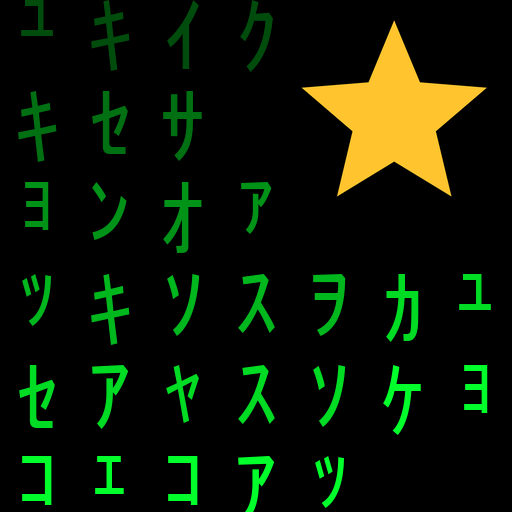
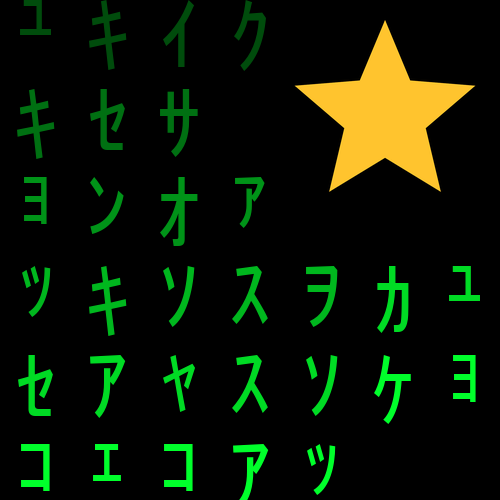
[FEATURE] Lite gets a store cover: Premium's cover without the star (#220)
* [FEATURE] Lite gets a store cover: Premium's cover without the star

Lite's listing used a screenshot of the face as its cover: a round watch
face with the clock, at small glyph size. It now gets
`resources/graphics/MatrixTimeCover.png`, the same artwork as Premium's
cover without the star.

- `tools/make-launcher-icons.py` draws the cover: Lite's rain in seven
  columns at 500 x 500, the size the store's dashboard asks for. It writes
  the cover on every `make icons`. `render()` takes an optional column
  count, and `columns_for()` gives the icons' default. That replaces
  `premium/tools/launcher_icon.py` temporarily changing Lite's
  `PIXELS_PER_CELL`.
- `premium/tools/launcher_icon.py` draws Premium's cover as `LITE.cover()`
  plus the star. As before, it clears the cells under the star's disc, now
  through `_cleared()`. Its size, column count and limit are Lite's.
  Premium's cover moves from 512 to 500. Drawn at 512, the refactored code
  reproduces the old cover pixel for pixel.
- `make check-icons`:
  - Lite's `--check` checks the cover is 500 x 500 and under 300 KB.
  - Premium's `check` adds that its cover is Lite's pixel for pixel away
    from the star and the cleared cells (`_cover_drift()`), as it already
    did for the launcher icons. A single pixel changed in Lite's cover
    fails it.
- README: the cover passage, the store-image tables, the LFS note, the
  command comments and the check description. Makefile: help text and
  comments.
[…]

diff --git a/premium/tools/launcher_icon.py b/premium/tools/launcher_icon.py
@@ -23,7 +23,9 @@ size: at 38 x 38 the star keeps the clearest outline and hides the least rain, a
 corner would vanish if a launcher crops icons to a circle.
 
 Generating and checking both need Pillow: `check` compares every Premium icon with
-Lite's, pixel by pixel, outside the star.
+Lite's, pixel by pixel, outside the star, and Premium's store cover with Lite's outside
+the star and the cells it clears. The cover check also reads Lite's rain font, to lay
+out those cells.
 """
 import importlib.util
 import math
@@ -47,12 +49,8 @@ DISC = 1.12
 # antialiased. The rain is not: it is Lite's, drawn natively at the target size.
 SUPERSAMPLE = 8
 
-# The store cover is the 70 x 70 icon's composition -- the same 7 columns of rain
-# and the same glyphs -- drawn at the cover's size rather than scaled up from 70.
-# Square, and well within the store's 300 KB.
-COVER_SIZE = 512
-COVER_COLUMNS = 7
-COVER_LIMIT = 300 * 1000
+# The store cover is Lite's cover with the star (#219): its size, column count and the
+# store's limit are Lite's, in tools/make-launcher-icons.py.
 
 # How far from the disc's edge, measured from pixel centres, Premium may differ from
 # Lite: the antialiased rim of the resampled disc reaches about 2.6 px.
@@ -110,8 +108,9 @@ def render(size):
     return _marked(LITE.render(size))
 
 
-def _cells(size):
-    """The glyph cells LITE.render lays out at `size`, as (x0, y0, x1, y1) boxes.
+def _cells(size, columns=None):
+    """The glyph cells LITE.render lays out at `size` in `columns` columns, as
+    (x0, y0, x1, y1) boxes.
 
     This mirrors the sizing at the top of LITE.render: the column count, the widest
     glyph fitted to a cell, the leading and the row count. `cover` checks that every
@@ -119,7 +118,7 @@ def _cells(size):
     """
     from PIL import ImageFont
 
-    columns = max(3, int(size / LITE.PIXELS_PER_CELL + 0.5))
+    columns = columns or LITE.columns_for(size)
     cell_w = size / columns
     for points in range(int(cell_w * 2) + 6, 3, -1):
         font = ImageFont.truetype(LITE.FONT, points)
@@ -135,24 +134,27 @@ def _cells(size):
             for c in range(columns) for r in range(rows)]
 
 
-def cover(size=COVER_SIZE):
-    """The store cover: the 70 x 70 icon's rain at `size`, with the star.
+def _cleared(cells, size):
+    """The pixel boxes the cover blanks, (x0, y0, x1, y1) inclusive: one per cell that
+    reaches under the star's disc, a pixel wider all round, and truncated to whole
+    pixels as Pillow truncates a rectangle's coordinates. `cover` paints exactly these
+    and `_cover_drift` skips exactly these, so the two cannot disagree by a pixel."""
+    cx, cy, d = _disc(size)
+    return [(int(x0 - 1), int(y0 - 1), int(x1 + 1), int(y1 + 1)) for x0, y0, x1, y1 in cells
+            if math.hypot(min(max(cx, x0), x1) - cx, min(max(cy, y0), y1) - cy) < d]
+
+
+def cover(size=None):
+    """The store cover: Lite's cover, with the star (#219).
 
     A glyph whose cell reaches under the disc is left out whole. At icon sizes the
     disc trims such a glyph by a pixel or two; at the cover's size it would cut it
     into fragments that read as dirt around the star."""
     from PIL import Image, ImageChops, ImageDraw
 
-    # Lite's renderer fixes the glyph cell at PIXELS_PER_CELL and lets the size decide
-    # how many columns fit. For the cover the column count is what is fixed, so the
-    # cell is widened for this one call and put back.
-    cell = LITE.PIXELS_PER_CELL
-    LITE.PIXELS_PER_CELL = size / COVER_COLUMNS
-    try:
-        rain = LITE.render(size)
-        cells = _cells(size)
-    finally:
-        LITE.PIXELS_PER_CELL = cell
+    size = size or LITE.COVER_SIZE
+    rain = LITE.cover(size)
+    cells = _cells(size, LITE.COVER_COLUMNS)
 
     inside = Image.new('L', rain.size, 0)
     for x0, y0, x1, y1 in cells:
@@ -162,19 +164,44 @@ def cover(size=COVER_SIZE):
         sys.exit(f"cover: Lite's renderer drew outside the cells _cells() expects, at {stray}; "
                  "bring _cells() back in step with tools/make-launcher-icons.py")
 
-    cx, cy, d = _disc(size)
     draw = ImageDraw.Draw(rain)
-    for x0, y0, x1, y1 in cells:
-        nearest = (min(max(cx, x0), x1), min(max(cy, y0), y1))
-        if math.hypot(nearest[0] - cx, nearest[1] - cy) < d:
-            draw.rectangle((x0 - 1, y0 - 1, x1 + 1, y1 + 1), fill=(0, 0, 0))
+    for box in _cleared(cells, size):
+        draw.rectangle(box, fill=(0, 0, 0))
     return _marked(rain)
 
 
 def write_cover(path):
     os.makedirs(os.path.dirname(path) or '.', exist_ok=True)
     cover().save(path, optimize=True)
-    print(f"  {COVER_SIZE}x{COVER_SIZE}  {path}  ({os.path.getsize(path)} bytes)")
+    size = LITE.COVER_SIZE
+    print(f"  {size}x{size}  {path}  ({os.path.getsize(path)} bytes)")
+
+
+def _cover_drift(cover_path):
+    """Pixels where Premium's cover differs from Lite's, away from the star and from the
+    cells it leaves out. -1 if either is missing or unreadable, not square, or the two
+    differ in size: the size checks report which, and a malformed file must fail the
+    check rather than end it in a traceback."""
+    from PIL import Image
+
+    lite_path = os.path.join(ROOT, LITE.COVER)
+    try:
+        lite = Image.open(lite_path).convert('RGB')
+        premium = Image.open(cover_path).convert('RGB')
+    except OSError:
+        # Missing files raise FileNotFoundError; unreadable ones UnidentifiedImageError.
+        # Both are OSErrors.
+        return -1
+    if lite.size != premium.size or lite.width != lite.height:
+        return -1
+    size = lite.width
+    cx, cy, d = _disc(size)
+    cleared = _cleared(_cells(size, LITE.COVER_COLUMNS), size)
+    a, b = lite.load(), premium.load()
+    return sum(1 for y in range(size) for x in range(size)
+               if a[x, y] != b[x, y]
+               and math.hypot(x + .5 - cx, y + .5 - cy) > d + RIM
+               and not any(x0 <= x <= x1 and y0 <= y <= y1 for x0, y0, x1, y1 in cleared))
 
 
 def _drift(size):
@@ -227,13 +254,22 @@ def check(fallback, cover_path):
            + ("" if drift == 0 else f" ({'sizes differ' if drift < 0 else f'{drift} pixels differ'};"
               " regenerate both with make icons)"))
 
+    size, limit = LITE.COVER_SIZE, LITE.COVER_LIMIT
     got = LITE.png_size(cover_path) if os.path.exists(cover_path) else None
-    ok(got is not None and got[0] == got[1],
-       f"{cover_path} is a square PNG" + (f" ({got[0]}x{got[1]})" if got else " (missing)"))
+    ok(got == (size, size),
+       f"{cover_path} is {size}x{size}" + (f" (it is {got[0]}x{got[1]})" if got and got != (size, size)
+                                          else "" if got else LITE.cover_absence(cover_path)))
     weight = os.path.getsize(cover_path) if got else None
-    ok(weight is not None and weight < COVER_LIMIT,
-       f"{cover_path} is under {COVER_LIMIT // 1000} KB"
+    ok(weight is not None and weight < limit,
+       f"{cover_path} is under {limit // 1000} KB"
        + (f" ({weight} bytes)" if weight is not None else ""))
+
+    # Regenerating Lite's cover alone, with tools/make-launcher-icons.py, would leave
+    # Premium's on the old artwork (#219).
+    drift = _cover_drift(cover_path)
+    ok(drift == 0, f"{cover_path} is {LITE.COVER} but for the star"
+       + ("" if drift == 0 else f" ({'missing, unreadable or of different sizes' if drift < 0 else f'{drift} pixels differ'};"
+          " regenerate both with make icons)"))
 
     print(f"\n{'ALL CONSISTENT' if not fail else f'{len(fail)} PROBLEM(S)'}\n")
     return 1 if fail else 0

diff --git a/tools/make-launcher-icons.py b/tools/make-launcher-icons.py
@@ -16,8 +16,11 @@ stops being characters and becomes noise. Rendering natively keeps the glyph cel
 at a constant ~10px on every device, so a bigger icon shows more rain rather than
 the same rain drawn larger, and no glyph is ever resampled.
 
+The store cover is the same artwork once more, square and much larger, with the column
+count fixed instead of the cell size (#219). Premium's cover is this one with its star.
+
 Usage:
-  tools/make-launcher-icons.py           regenerate icons and the jungle mapping
+  tools/make-launcher-icons.py           regenerate icons, the jungle mapping and the cover
   tools/make-launcher-icons.py --table   print the README size table
   tools/make-launcher-icons.py --check   verify what is committed is consistent
 
@@ -67,6 +70,15 @@ HEAD_STAGGER = 2
 # Fixed, so regenerating without changing the rules reproduces the same artwork.
 SEED = 20260917
 
+# The store cover is the 70 x 70 icon's composition -- the same 7 columns of rain and
+# the same glyphs -- drawn at the cover's size rather than scaled up from 70 (#189,
+# #219). 500 x 500 is the size the store's dashboard asks for, and the store allows
+# 300 KB. premium/tools/launcher_icon.py draws Premium's from this one, with its star.
+COVER = 'resources/graphics/MatrixTimeCover.png'
+COVER_SIZE = 500
+COVER_COLUMNS = 7
+COVER_LIMIT = 300 * 1000
+
 
 # resources/drawables/launcher_icon.png is rendered once more at the largest required
 # size. That copy is what a product gets if it is added to manifest.xml without
@@ -105,10 +117,17 @@ def sdk_sizes(ids):
 
 # ------------------------------------------------------------------------ rendering
 
-def render(size):
+def columns_for(size):
+    """How many columns an icon `size` pixels wide gets: one per PIXELS_PER_CELL."""
+    return max(3, int(size / PIXELS_PER_CELL + 0.5))
+
+
+def render(size, columns=None):
+    """The rain, `size` pixels square, in `columns` columns: by default as many as fit
+    at PIXELS_PER_CELL. The cover fixes the count instead, and so draws larger glyphs."""
     from PIL import Image, ImageDraw, ImageFont
 
-    columns = max(3, int(size / PIXELS_PER_CELL + 0.5))
+    columns = columns or columns_for(size)
     cell_w = size / columns
 
     # Fit the widest glyph in the charset, not a representative one: the typeface is
@@ -168,9 +187,26 @@ def png_size(path):
     return int.from_bytes(head[16:20], 'big'), int.from_bytes(head[20:24], 'big')
 
 
+def cover_absence(path):
+    """Why a cover has no PNG size, for a check's message: missing, or not a PNG -- an
+    LFS pointer, say."""
+    return " (missing)" if not os.path.exists(path) else " (not a PNG)"
+
+
 def write_icon(path, size):
     os.makedirs(os.path.dirname(path), exist_ok=True)
     render(size).save(path)
+
+
+def cover(size=COVER_SIZE):
+    """The store cover: the 70 x 70 icon's rain, drawn at `size`."""
+    return render(size, COVER_COLUMNS)
+
+
+def write_cover(path=COVER):
+    os.makedirs(os.path.dirname(path) or '.', exist_ok=True)
+    cover().save(path, optimize=True)
+    print(f"  {COVER_SIZE}x{COVER_SIZE}  {path}  ({os.path.getsize(path)} bytes, store cover)")
 
 
 # -------------------------------------------------------------------- jungle mapping
@@ -295,6 +331,8 @@ def generate():
     write_icon(BASE_ICON, fallback)
     print(f"  {fallback}x{fallback}  {BASE_ICON}  (fallback)")
 
+    write_cover()
+
     # Read before opening for write: `open(JUNGLE, 'w')` truncates, and as the
     # receiver of .write() it is evaluated before the argument that reads the file.
     text = open(JUNGLE).read()
@@ -355,6 +393,17 @@ def check():
     orphans = sorted(unmapped(set(mapped.values())))
     ok(not orphans, "no icon directory left unmapped"
        + (f" ({orphans})" if orphans else ""))
+
+    print("\nCOVER")
+    got = png_size(COVER) if os.path.exists(COVER) else None
+    ok(got == (COVER_SIZE, COVER_SIZE),
+       f"{COVER} is {COVER_SIZE}x{COVER_SIZE}"
+       + (f" (it is {got[0]}x{got[1]})" if got and got != (COVER_SIZE, COVER_SIZE) else
+          "" if got else cover_absence(COVER)))
+    weight = os.path.getsize(COVER) if got else None
+    ok(weight is not None and weight < COVER_LIMIT,
+       f"{COVER} is under {COVER_LIMIT // 1000} KB"
+       + (f" ({weight} bytes)" if weight is not None else ""))
 
     print("\nREADME")
     stated = readme_table()

diff --git a/tools/make-graphics.py b/tools/make-graphics.py
@@ -591,7 +591,7 @@ def main():
     parser = argparse.ArgumentParser(
         description="Regenerate an edition's generated store images from the "
         "simulator: Lite's in resources/graphics, Premium's in premium/graphics. The "
-        "composed heroes, their banners and Premium's cover are left alone."
+        "composed heroes, their banners and the covers are left alone."
     )
     parser.add_argument(
         "-e",

diff --git a/README.md b/README.md
@@ -526,6 +526,11 @@ size the SDK declares for that device. It needs no SDK.
 device asks for. It is a fallback only: it applies to a product added to `manifest.xml` before
 `make icons` has been rerun.
 
+The same tool draws Lite's **store cover**, `resources/graphics/MatrixTimeCover.png`: the 70 x 70
+icon's seven columns of rain, drawn at 500 x 500 rather than scaled up (#219). `make check-icons`
+checks that it is 500 x 500 and under the store's 300 KB. Premium's cover is this one with its star;
+see [Premium launcher icon](#premium-launcher-icon).
+
 ### Premium launcher icon
 <sub>[↑↑ TOC](#table-of-contents) · [↑ Launcher icon](#launcher-icon)</sub>
 
@@ -554,18 +559,22 @@ and fails if they differ anywhere but at the star. So regenerating Lite alone, w
 that Premium's fallback is the largest size mapped, and that the `drawables.xml` declaring it is in
 place: without it, Premium falls back to Lite's icon.
 
-Premium's **store cover** is `premium/graphics/MatrixTimePremiumCover.png`, also written by `make icons`.
-It is 512 x 512 and about 28 KB, against the store's 300 KB limit. It shows the 70 x 70 icon's rain,
-drawn at the cover's size rather than scaled up, with the same star. A glyph whose cell reaches under
-the star's disc is left out whole: at the cover's size, the disc would otherwise cut it into
-fragments. `make check-icons` checks that the cover is square and under the limit.
+The two **store covers** are written by `make icons` too (#219). Lite's is
+`resources/graphics/MatrixTimeCover.png`, drawn by `tools/make-launcher-icons.py`, and Premium's is
+`premium/graphics/MatrixTimePremiumCover.png`: Lite's, with the same star. Both are 500 x 500, the
+size the store's dashboard asks for, and about 26 KB against its 300 KB limit. They show the 70 x 70
+icon's rain, its seven columns drawn at the cover's size rather than scaled up. On Premium's, a glyph
+whose cell reaches under the star's disc is left out whole: at the cover's size, the disc would
+otherwise cut it into fragments. `make check-icons` checks that both covers are 500 x 500 and under
+the limit, and that Premium's is Lite's pixel for pixel away from the star and the cells it clears.
+So regenerating one cover alone cannot leave the two editions on different artwork unnoticed.
 
 Both targets need `garmin-graphics-generator` 0.7.0 or newer, the first release that can write an
 edition's icons into a directory and jungle of its own. It brings [Pillow](https://python-pillow.org)
 with it, which every icon is drawn with.
 
 Install it for the `python3` on `PATH`, not with pipx or into a separate venv: the Makefile runs the
-tool through that `python3`, so that one Pillow draws Lite's icons, Premium's and the cover. A
+tool through that `python3`, so that one Pillow draws Lite's icons, Premium's and the covers. A
 different Pillow can antialias the glyphs differently, and the icons were generated with 12.1.0.
 `make check-icons` would catch Premium drifting from Lite, but not both drifting together, so
 regenerate with 12.1.0 unless the artwork is meant to change.
@@ -583,7 +592,7 @@ Each edition has a store listing of its own, and so a set of images of its own: 
 them are **generated output** of `make graphics`; do not edit those by hand. The exceptions are the
 published heroes and their banners, which are composed with an image model and picked by hand -- with
 `make hero` for Premium's, and before `make hero` existed for Lite's -- and which `make graphics`
-deliberately does not write; and Premium's store cover, which is drawn from the launcher icon's
+deliberately does not write; and the two store covers, which are drawn from the launcher icon's
 artwork by `make icons`; see [Premium launcher icon](#premium-launcher-icon).
 
 Lite's, in `resources/graphics/`:
@@ -598,6 +607,7 @@ Lite's, in `resources/graphics/`:
 | `MatrixTimeHero-small.png` | the same composition at 900 x 450 | the banner at the top of this file, until Premium's replaced it | composed by hand |
 | `MatrixTimeHero-draft.png` | the five captures scattered across 1440 x 720, face-on | fallback, and what a composed hero is judged against | `make graphics` |
 | `MatrixTimeHero-draft-small.png` | the same composition at 900 x 450 | the same | `make graphics` |
+| `MatrixTimeCover.png` | the launcher icon's artwork, 500 x 500 | store listing | `make icons` |
 
 Premium's, in `premium/graphics/`:
 
@@ -611,7 +621,7 @@ Premium's, in `premium/graphics/`:
 | `MatrixTimePremiumHero-draft.png` | the five captures scattered across 1440 x 720, face-on | fallback, and what a composed hero is judged against | `make graphics EDITION=premium` |
 | `MatrixTimePremium-default.png` | the face at its defaults, set into the watch render, 200 px wide | the [Features](#features) table | `make graphics EDITION=premium` |
 | `MatrixTimePremium-<setting>.png`, for `timeSize`, `trailLength`, `timeAlign`, `timeColor`, `rainColor`, `alwaysOnBrightness` and `date` | the same, with that one setting changed from its default | the [Features](#features) table | `make graphics EDITION=premium` |
-| `MatrixTimePremiumCover.png` | the launcher icon's artwork, 512 x 512 | store listing | `make icons` |
+| `MatrixTimePremiumCover.png` | Lite's cover with the star, 500 x 500 | store listing | `make icons` |
 
 Premium has no raw capture, since nothing in its listing uses one, and no draft banner. The banner at
 the top of this file is Premium's published hero at 900 x 450, written by `make hero` beside the hero
@@ -784,7 +794,7 @@ typefaces, `resources/fonts/MatrixCodeNFI.ttf`, `resources/fonts/SUSEMono-Regula
 `premium/resources/fonts/SUSEMono-ExtraBold.ttf`; the launcher icon
 fallback, `resources/drawables/launcher_icon.png`; the ten hero and screenshot graphics under
 `resources/graphics/`; and Premium's sixteen under `premium/graphics/`. Everything else is stored
-normally, the generated bitmap fonts, the per-device launcher icons and Premium's store cover
+normally, the generated bitmap fonts, the per-device launcher icons and both store covers
 included -- they are build output of the typefaces and the icon artwork, small, and worth diffing.
 
 `git lfs install` is once per machine, not once per repository, and wants doing before the clone:
@@ -937,12 +947,12 @@ make sideload
 # ... and wait up to five minutes for a watch to be plugged in first
 make sideload WAIT=300
 
-# regenerate both editions' launcher icons and their jungle mappings, and Premium's
-# store cover
+# regenerate both editions' launcher icons and their jungle mappings, and both store
+# covers
 make icons
 
-# regenerate the eight generated images in resources/graphics; the composed hero
-# and its banner are left alone
+# regenerate the eight generated images in resources/graphics; the composed hero,
+# its banner and the cover are left alone
 make graphics
 
 # ... Premium's fourteen in premium/graphics instead; its composed hero, banner and cover are left alone
@@ -1019,7 +1029,7 @@ ignored.
 
 `make graphics` regenerates the images an edition's store listing uses that it owns -- the gallery
 and the draft hero -- from whatever the face currently draws: eight in `resources/graphics/` for Lite,
-fourteen in `premium/graphics/` for Premium. The published heroes, their banners and Premium's cover are
+fourteen in `premium/graphics/` for Premium. The published heroes, their banners and the covers are
 left alone. It needs Docker running and
 [`garmin-graphics-generator`](https://github.com/wkusnierczyk/garmin-graphics-generator) 0.5.1 or
 newer for Lite, 0.6.0 or newer for Premium, and no SDK: the capture runs the Connect IQ simulator
@@ -1048,7 +1058,7 @@ carries the stroke the scaler's rule gives for its family, that the size tables 
 strokes and label exactly those fonts hollow, that no generated `fonts.xml` keeps the `stroke`
 attribute, and that every hollow `.fnt` has its filled twin's metrics in every family, so switching
 style never moves the time. `check-icons` does the same for both editions' launcher icons and their
-per-product mappings in `monkey.jungle` and `premium.jungle`, and for Premium's store cover; see
+per-product mappings in `monkey.jungle` and `premium.jungle`, and for both store covers; see
 [Launcher icon](#launcher-icon).
 
 `make run` and `make test` start the simulator themselves when it is not already up, wait for it to
